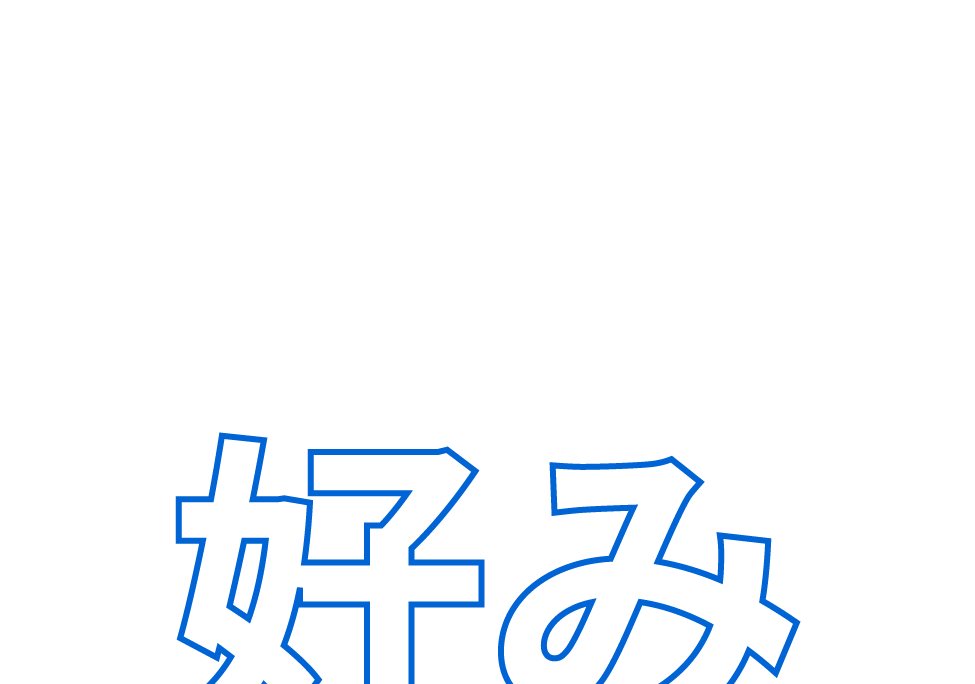
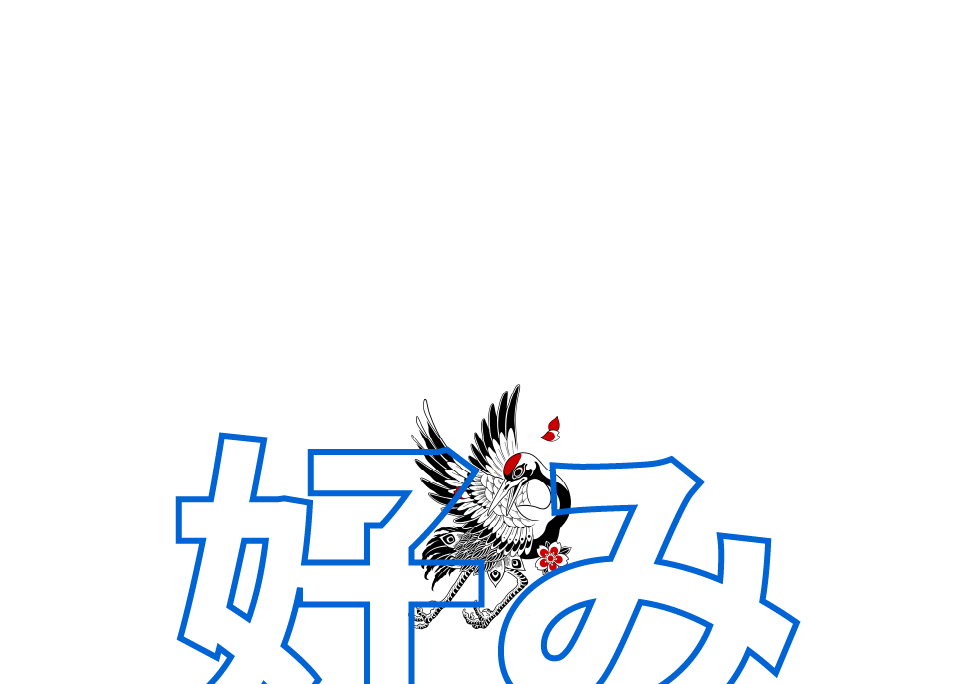
changes

Changed region(s): [[0.4, 0.5526, 0.5846, 0.9211]]

diff --git a/src/app/components/background/BackgroundCanvas/BackgrounCanvas.tsx b/src/app/components/background/BackgroundCanvas/BackgrounCanvas.tsx
@@ -17,7 +17,7 @@ import { useMobile } from '../../../../../contexts/MobileContext';
 import { usePathname } from 'next/navigation';
 
 import mobileBackground from '/public/images/background-mobile_bgw.png';
-import desktopBackground from '/public/images/background-desktop_bgw.png';
+import desktopBackground from '/public/images/background-desktop_bgw_test.png';
 import tabletBackground from '/public/images/background_tablet_bgw.png';
 
 import vertexShader from './shaders/background.vert';
